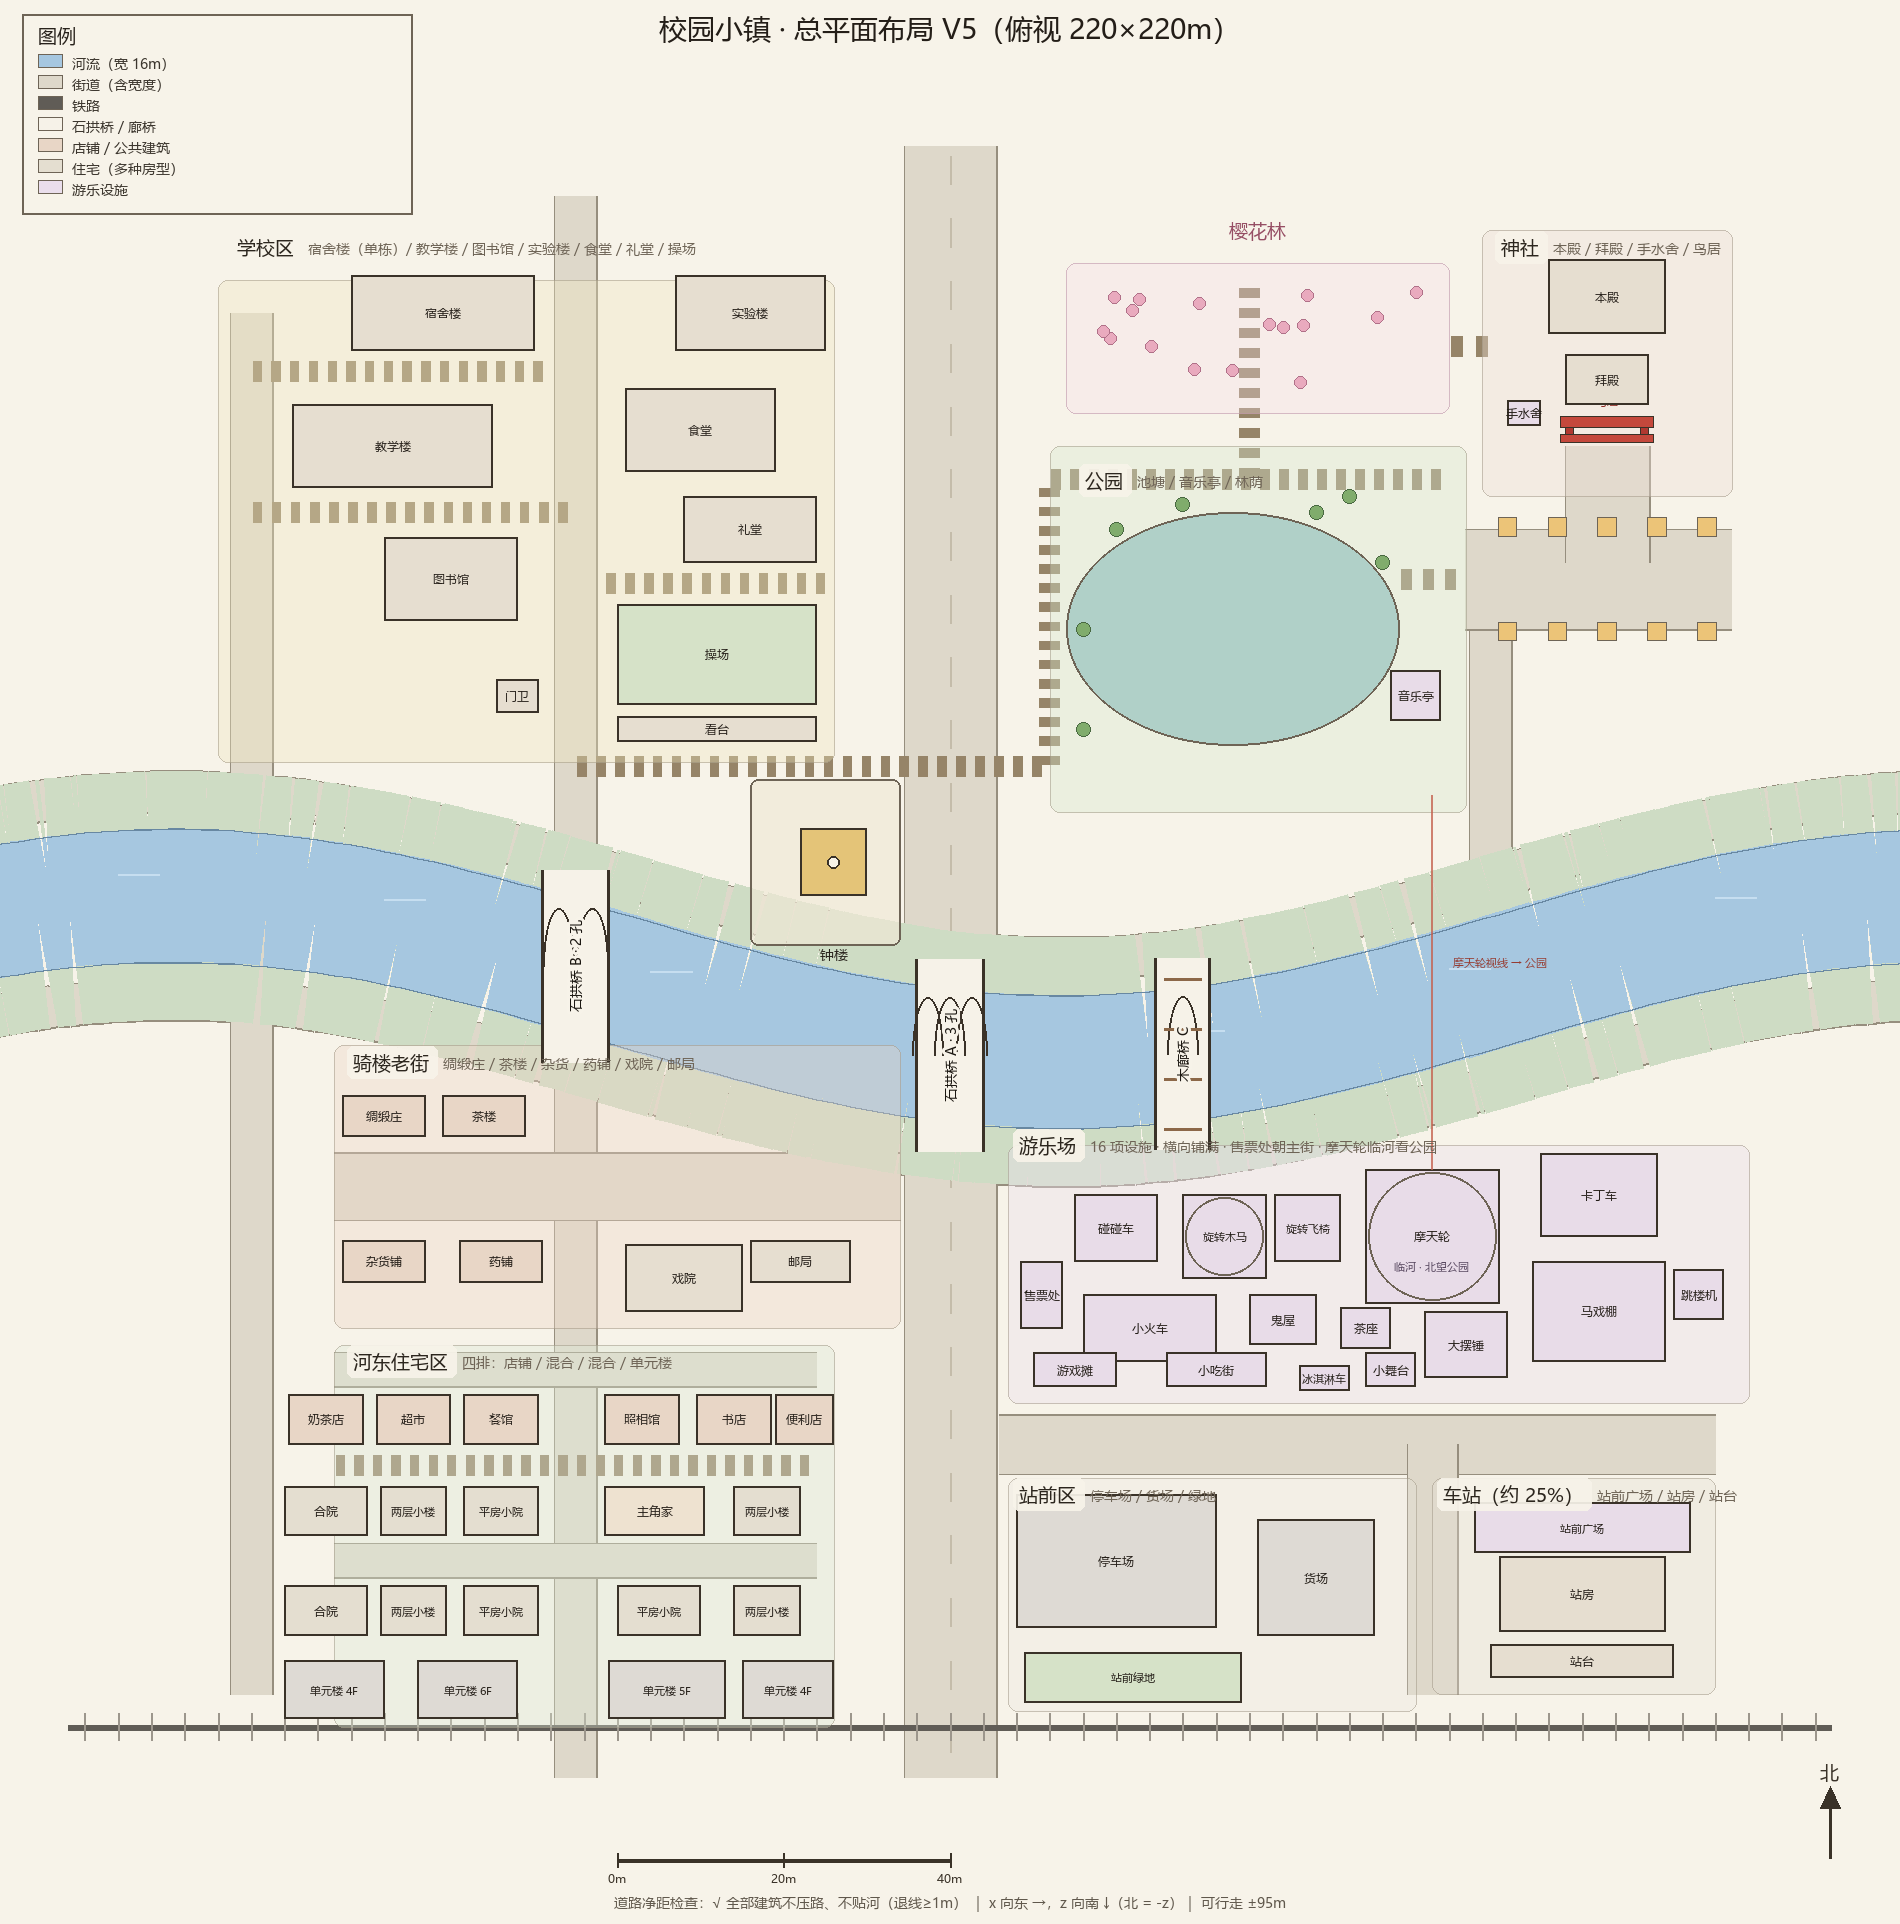
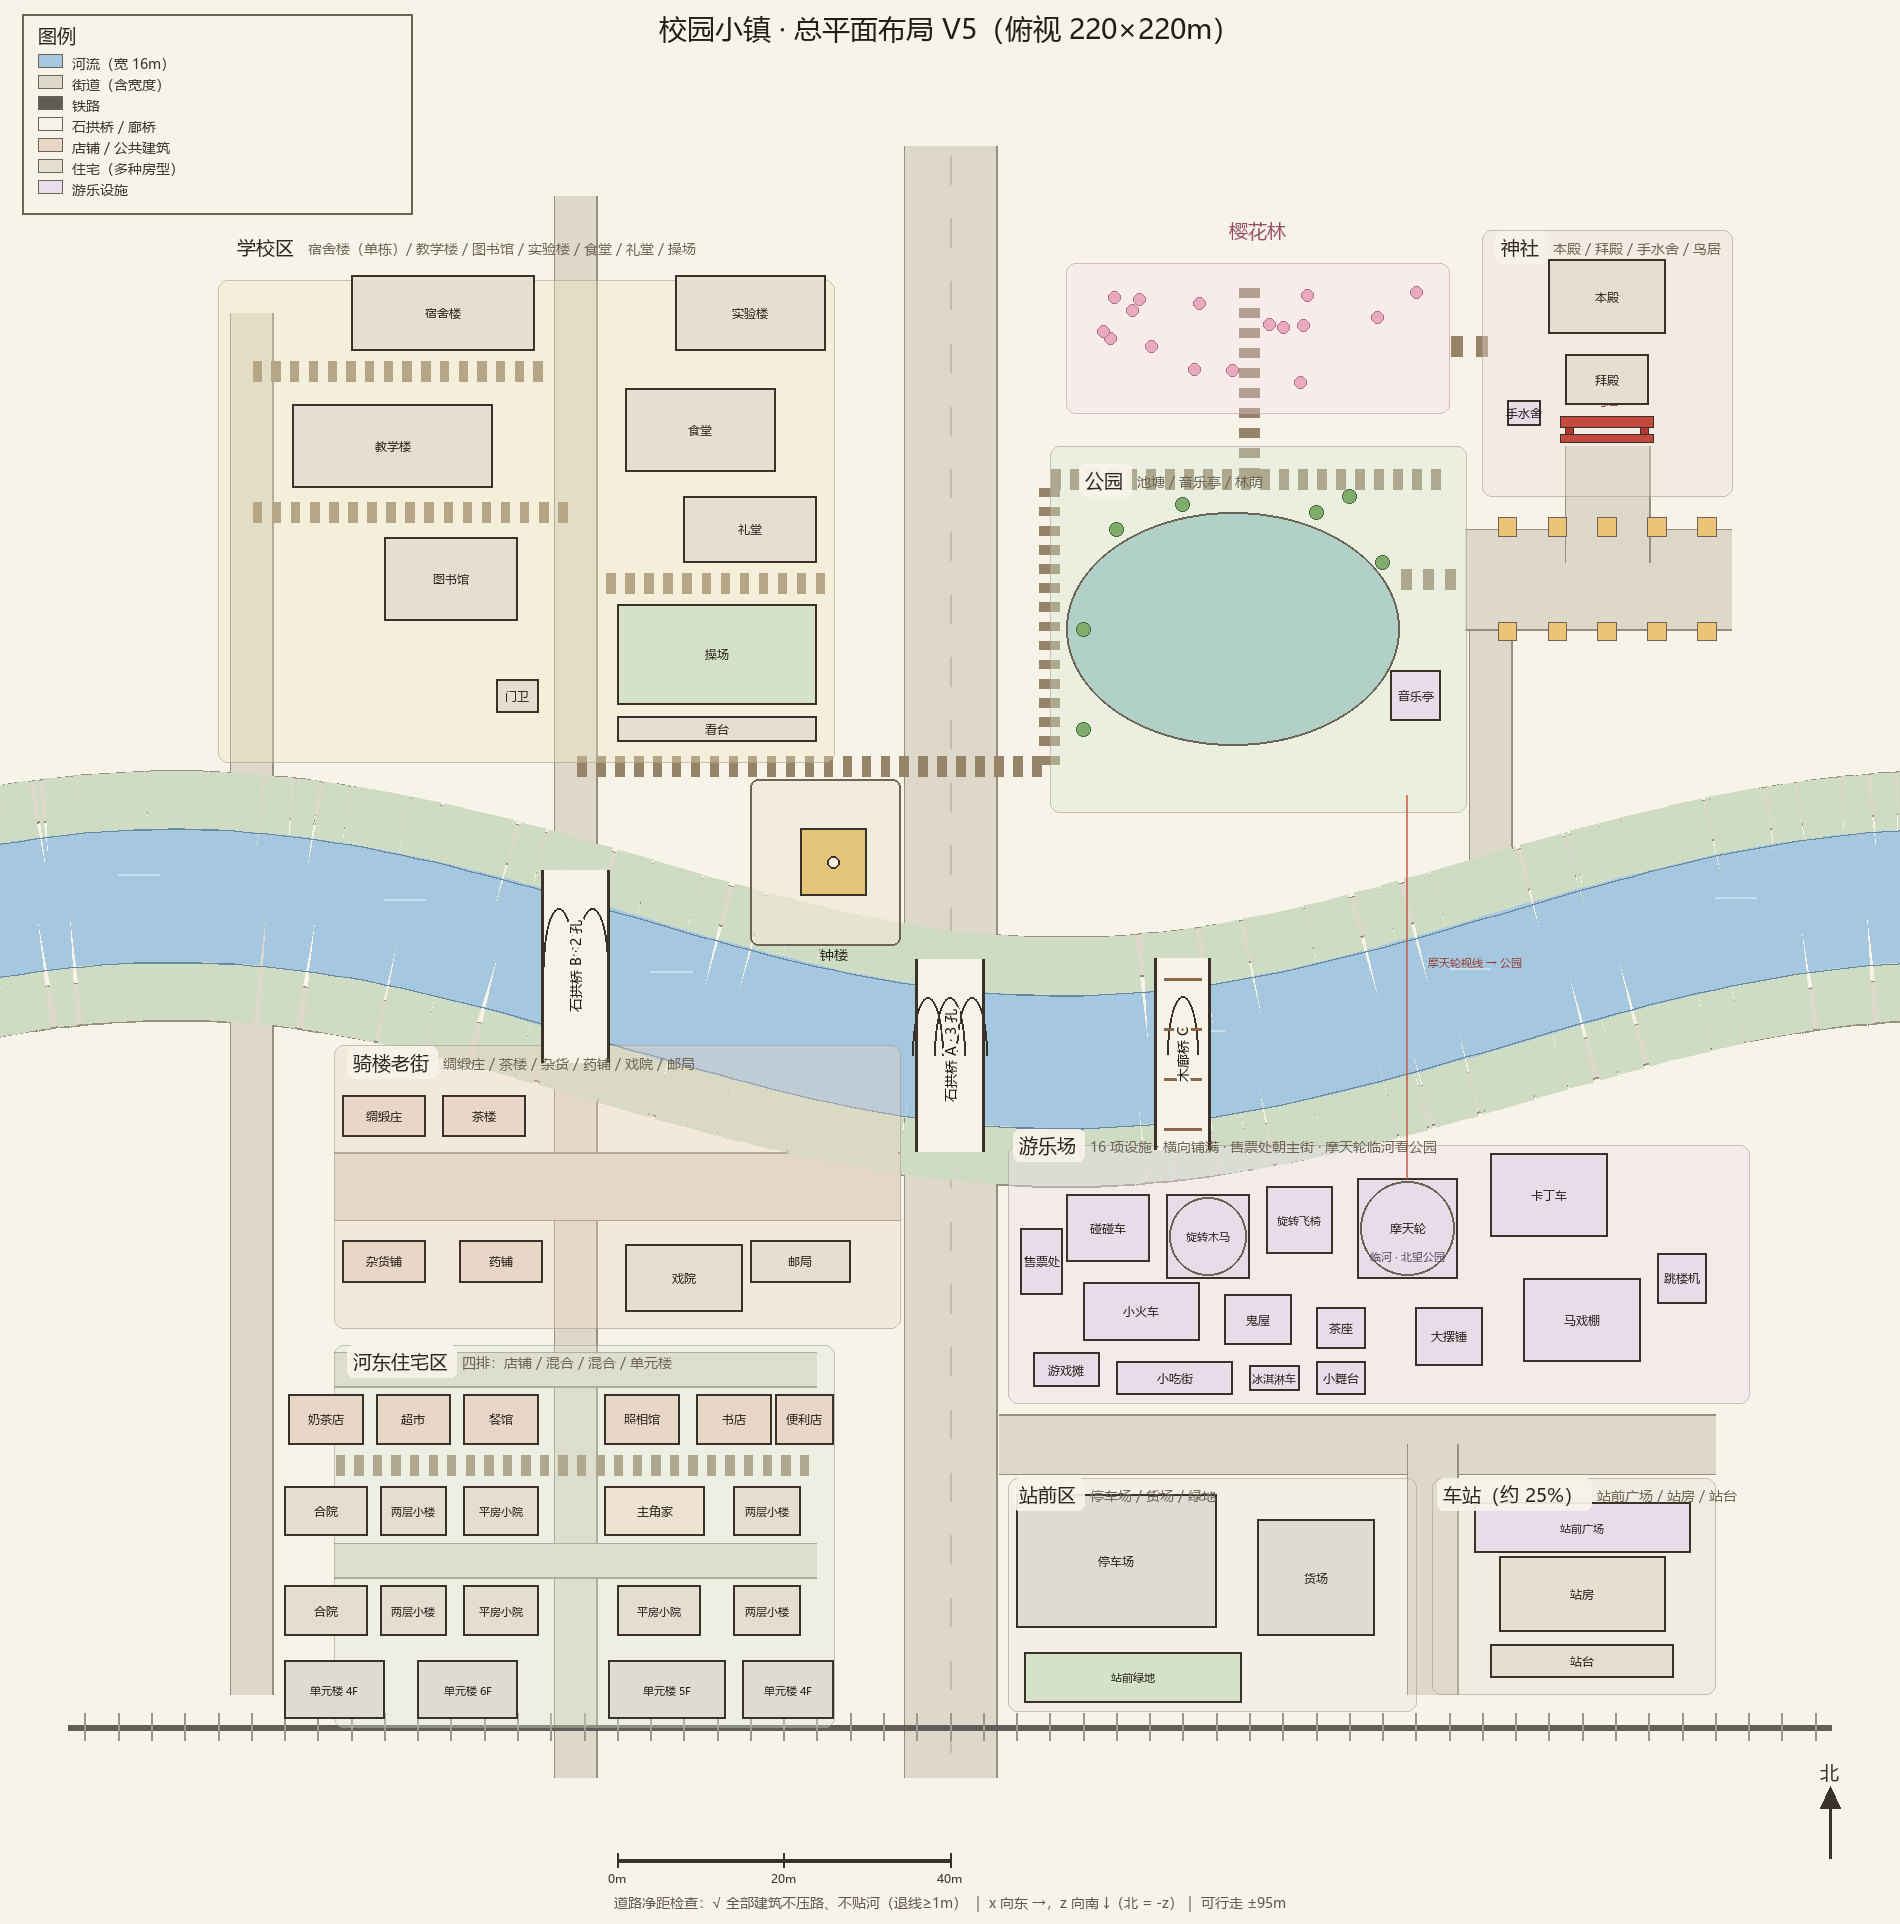
docs(设计): 游乐场 16 项设施重排（间距 1.5~6m），新增建筑互不重叠校验
- 修掉几处贴合：小火车 × 游戏摊/小吃街 重叠、茶座 × 小舞台仅 0.5m、马戏棚 × 跳楼机仅 1m
- 16 项设施按三排重排，间距 1.5~6m；摩天轮改 12m 直径仍在临河北缘（视线正对公园）
- 绘图脚本新增「任意两栋建筑间距 ≥0.5m」校验；连同道路/河道净距一起跑，当前 √ 全通过

Changed region(s): [[0.5589, 0.5925, 0.9005, 0.7484], [0.5279, 0.6549, 0.5589, 0.6861]]

diff --git a/docs/18-小镇总平面布局.md b/docs/18-小镇总平面布局.md
@@ -32,6 +32,7 @@
 **校验规则（已写进绘图脚本，每次出图自动跑）**：
 - 每栋建筑到每条道路的净距 ≥ **1.0m**（退线）
 - 每栋建筑到河道中心线的净距 ≥ **16m**（河宽 8 + 河滨路 + 退线）
+- **任意两栋建筑互不重叠**，且间距 ≥ **0.5m**（防止再出现「贴上」的情况）
 - 当前结果：**√ 全部通过**（脚本打印违规项，当前为 0）
 
 ## 二、建筑与用途（全部标在图上）
@@ -82,11 +83,11 @@
 
 | 排 | 设施 |
 | --- | --- |
-| 北排（临河） | 碰碰车（19,32）｜旋转木马（33,33）｜旋转飞椅（43,32）｜**摩天轮（58,33，直径 16m）**｜卡丁车（78,28） |
-| 中排 | **售票处（11,40，靠主街一侧）**｜小火车（24,44）｜鬼屋（40,43）｜茶座（50,44）｜大摆锤（62,46）｜马戏棚（78,42） |
-| 南排 | 游戏摊（15,49）｜小吃街（32,49）｜冰淇淋车（45,50）｜小舞台（53,49）｜跳楼机（90,40） |
+| 北排（临河） | 碰碰车（19,32）｜旋转木马（31,33）｜旋转飞椅（42,31）｜**摩天轮（55,32，直径 12m）**｜卡丁车（72,28）｜跳楼机（88,38） |
+| 中排 | **售票处（11,36，靠主街一侧）**｜小火车（23,42）｜鬼屋（37,43）｜茶座（47,44）｜大摆锤（60,45）｜马戏棚（76,43） |
+| 南排 | 游戏摊（14,49）｜小吃街（27,50）｜冰淇淋车（39,50）｜小舞台（47,50） |
 
-共 **16 项设施**；摩天轮仍在临河北缘，视线（红线）正对河对岸公园；净距校验全部通过。
+设施之间间距 **1.5~6m**（不再贴在一起），共 **16 项**；摩天轮仍在临河北缘，视线（红线）正对河对岸公园；净距校验全部通过。
 
 ## 三、与前几版的变化
 
